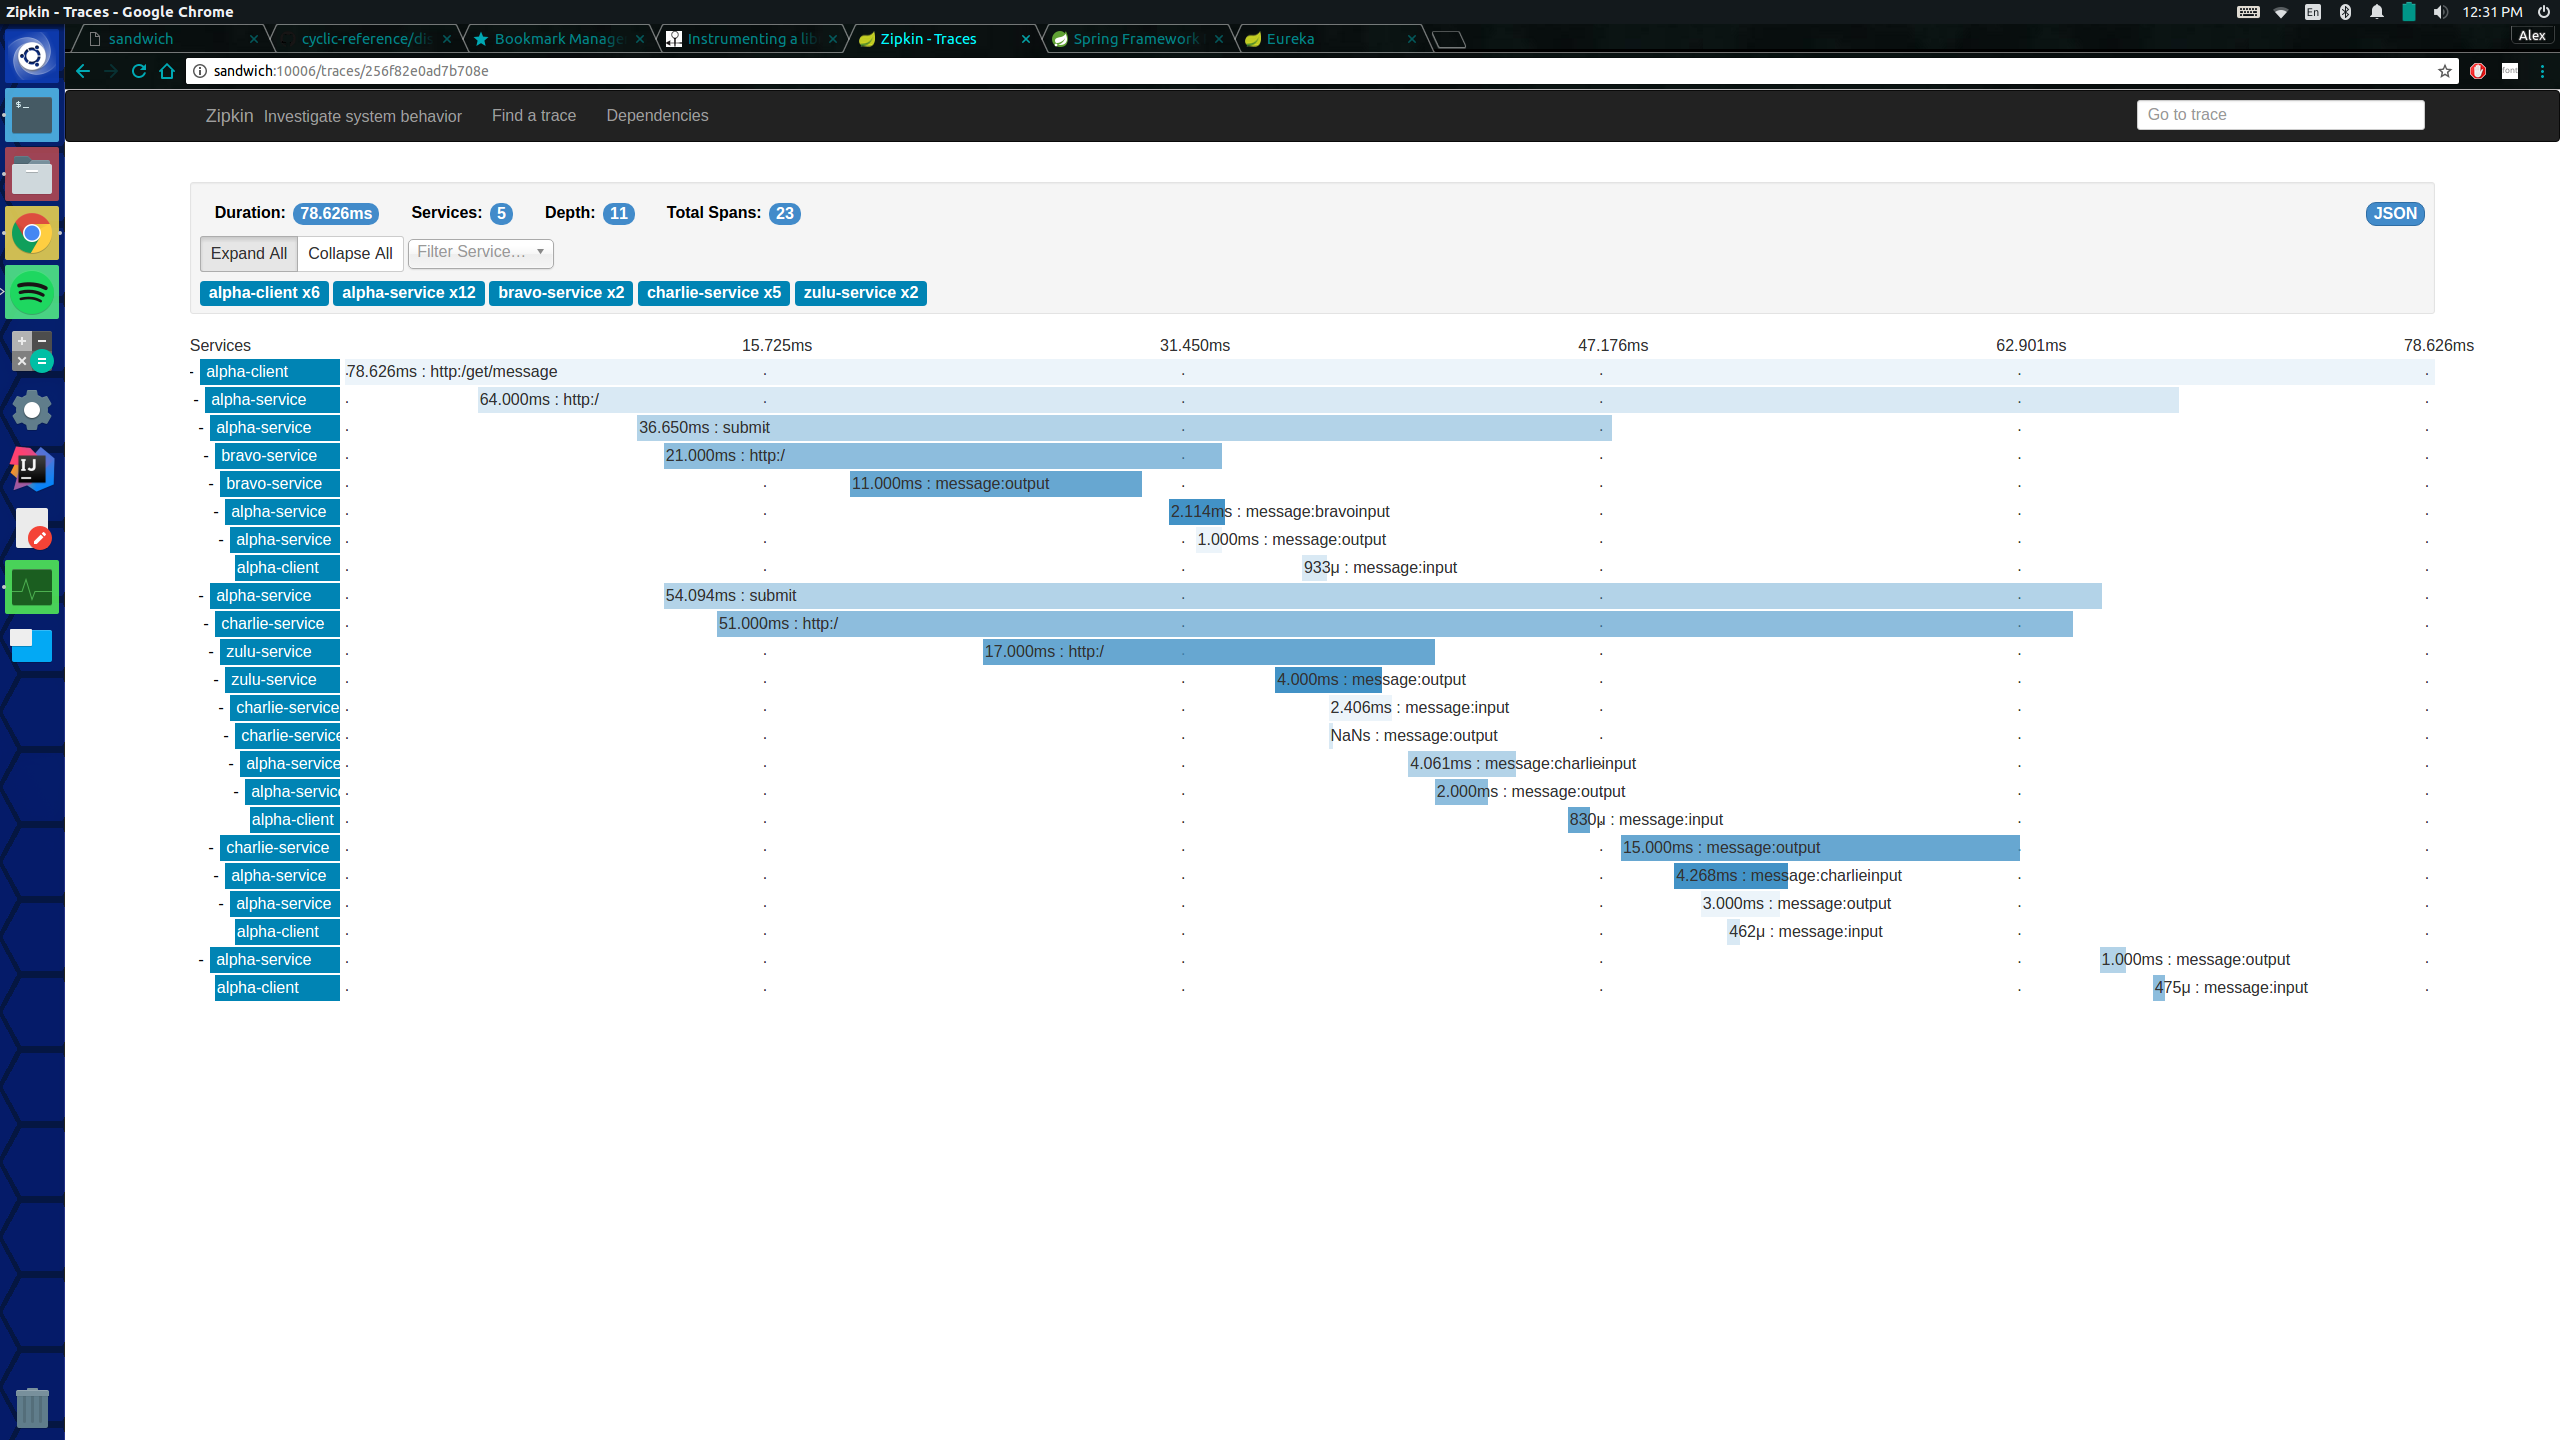
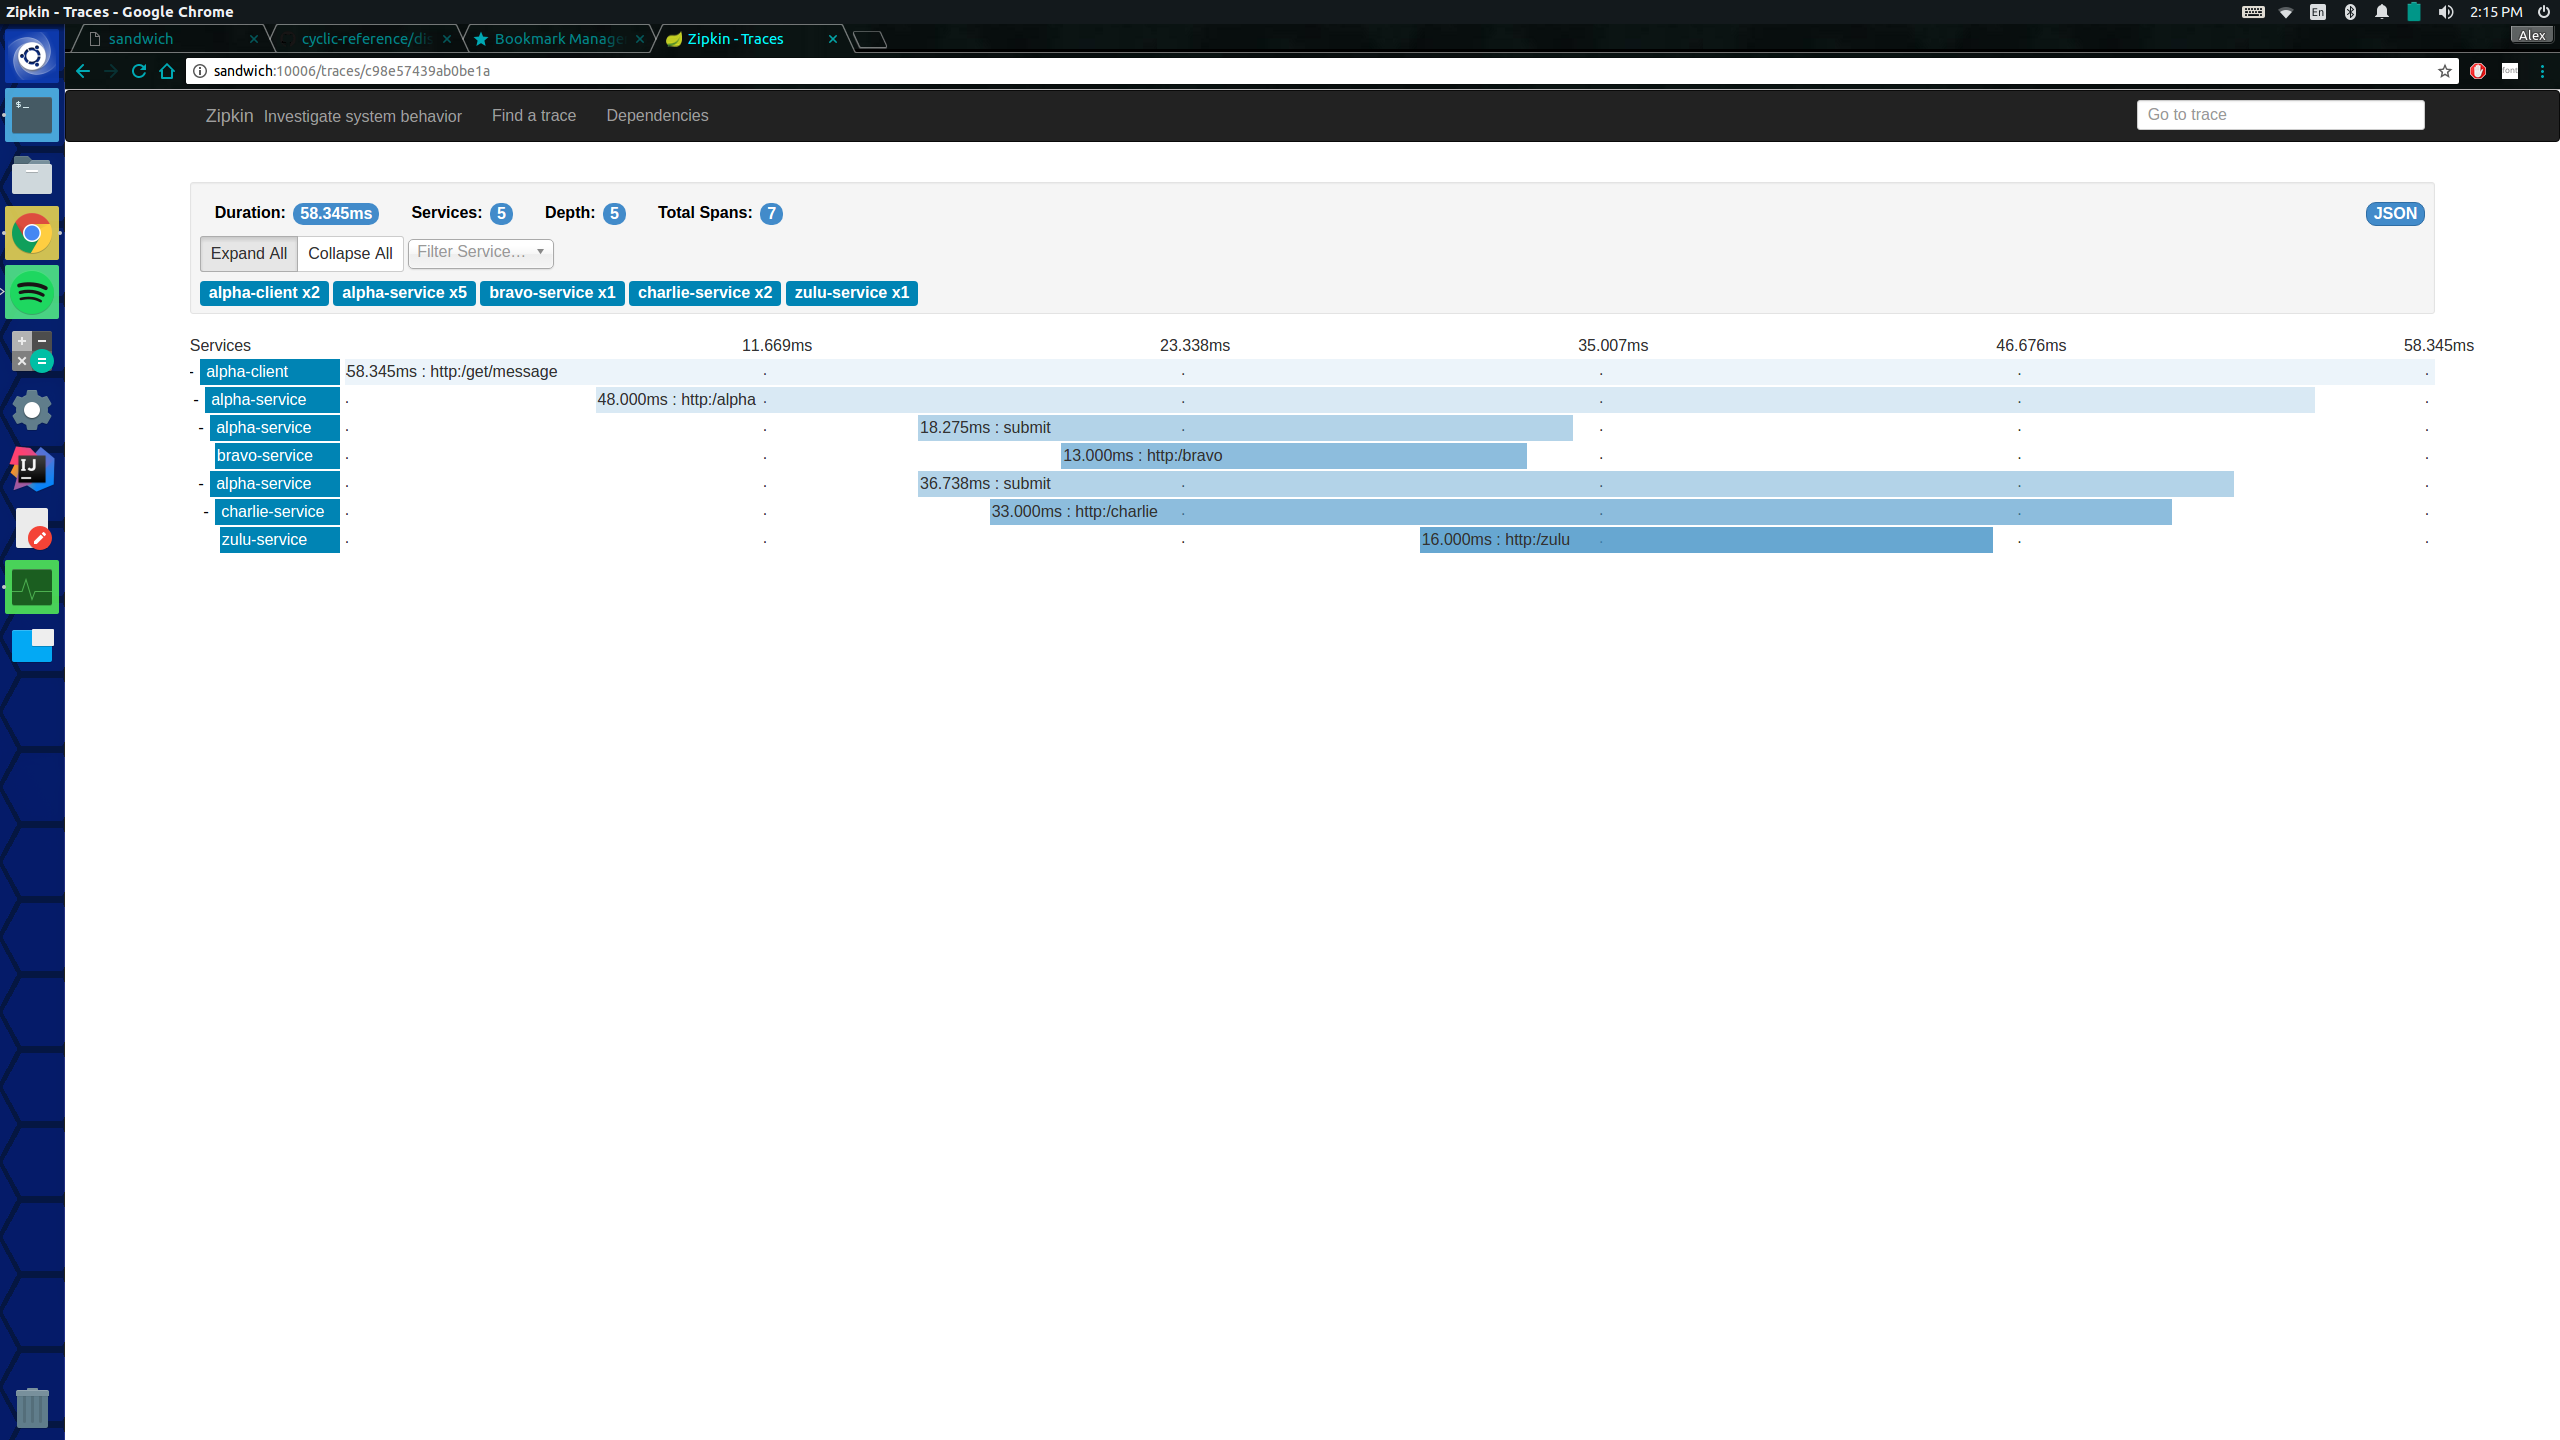
Added Updated Pictures of less stream dependencies

diff --git a/_drafts/2017-05-12-Distributed-Tracing.md b/_drafts/2017-05-12-Distributed-Tracing.md
@@ -101,5 +101,5 @@ Given the example stated above and all requests are blocking, a trace would be:
 That is quite a bit to take in, fortunately with this information, Zipkin has the ability to create a graphical depiction of a dependency tree!
 The following dependency tree was created by Zipkin UI from a trace of the example project above.
  
-![Service Dependency Tree]({{site.imageDir}}/tracing/tree-crop.png)
+![Service Dependency Tree]({{site.imageDir}}/tracing/dependency-tree.png)
 
